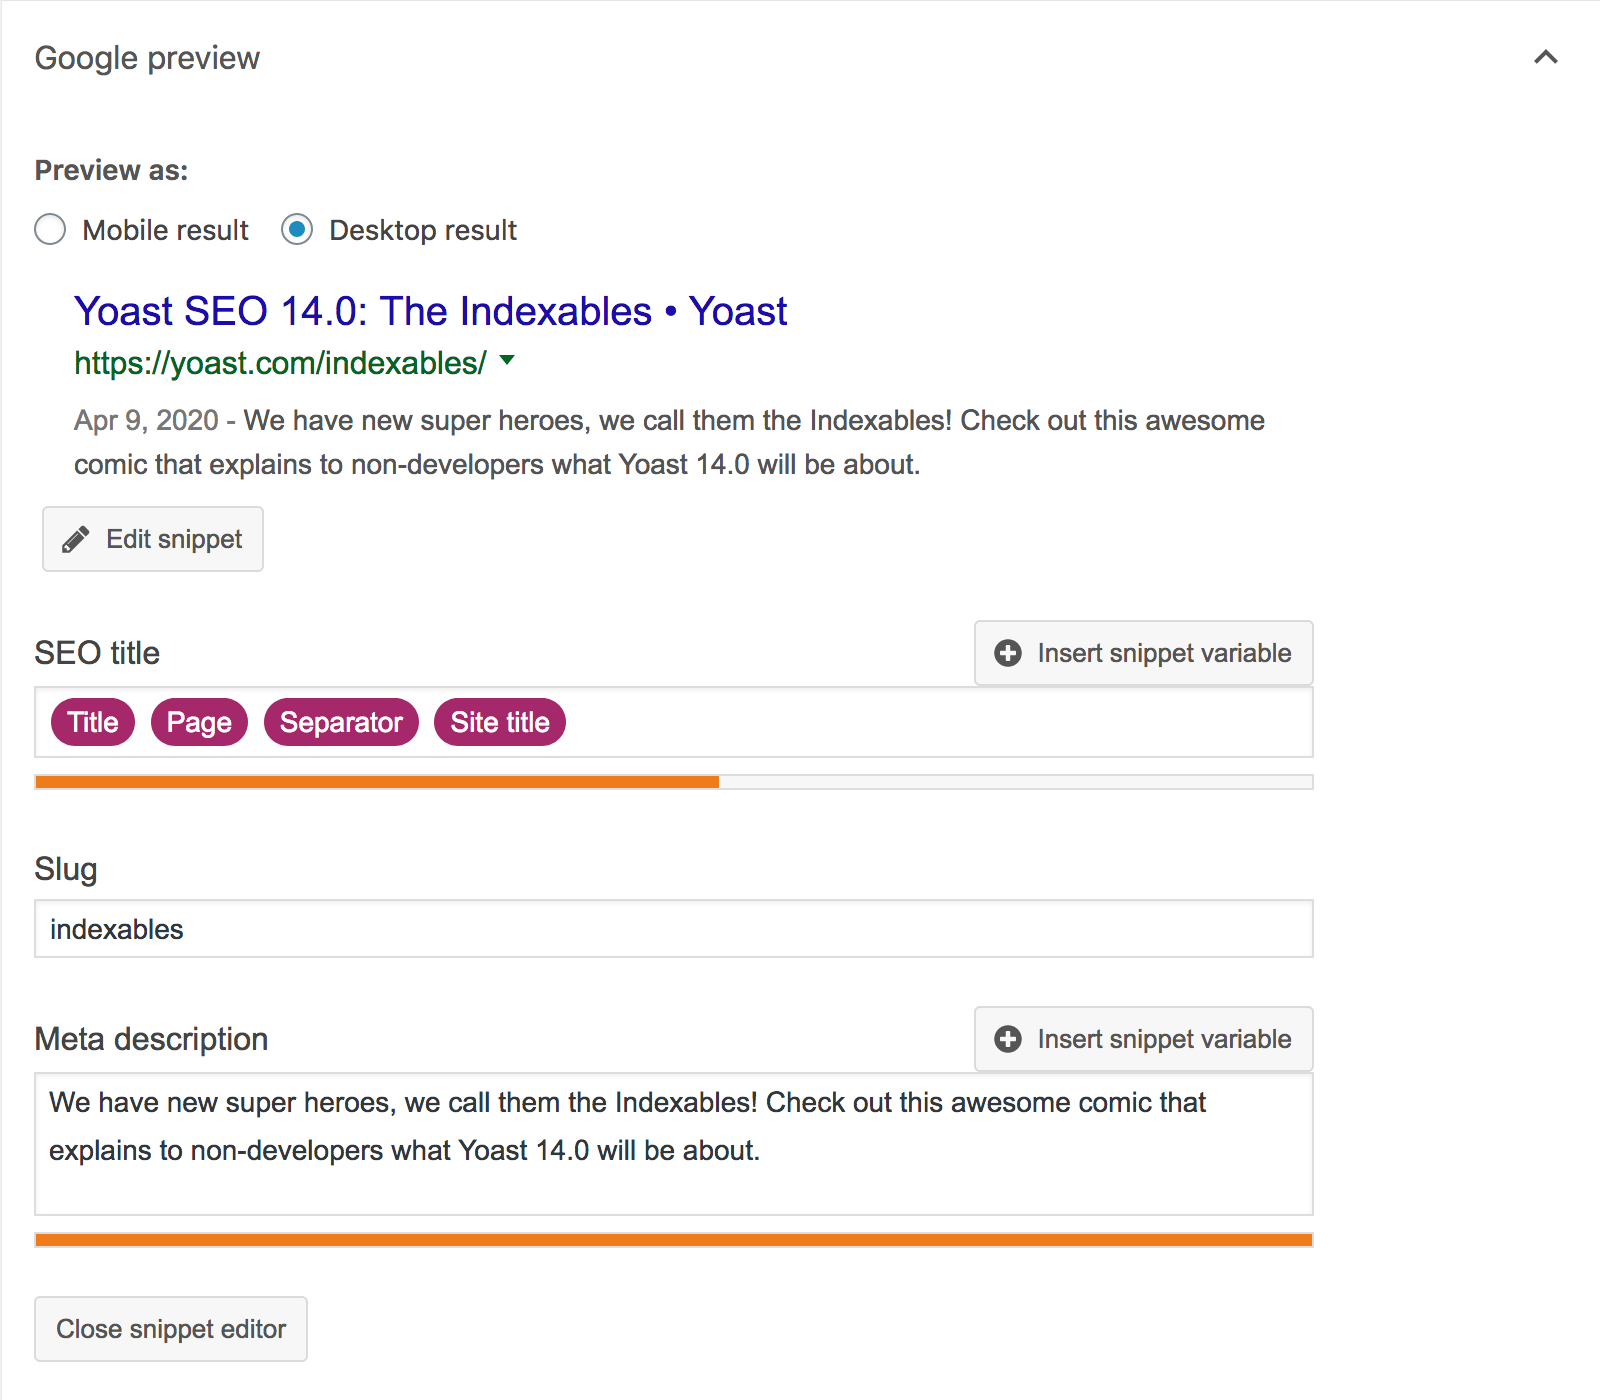
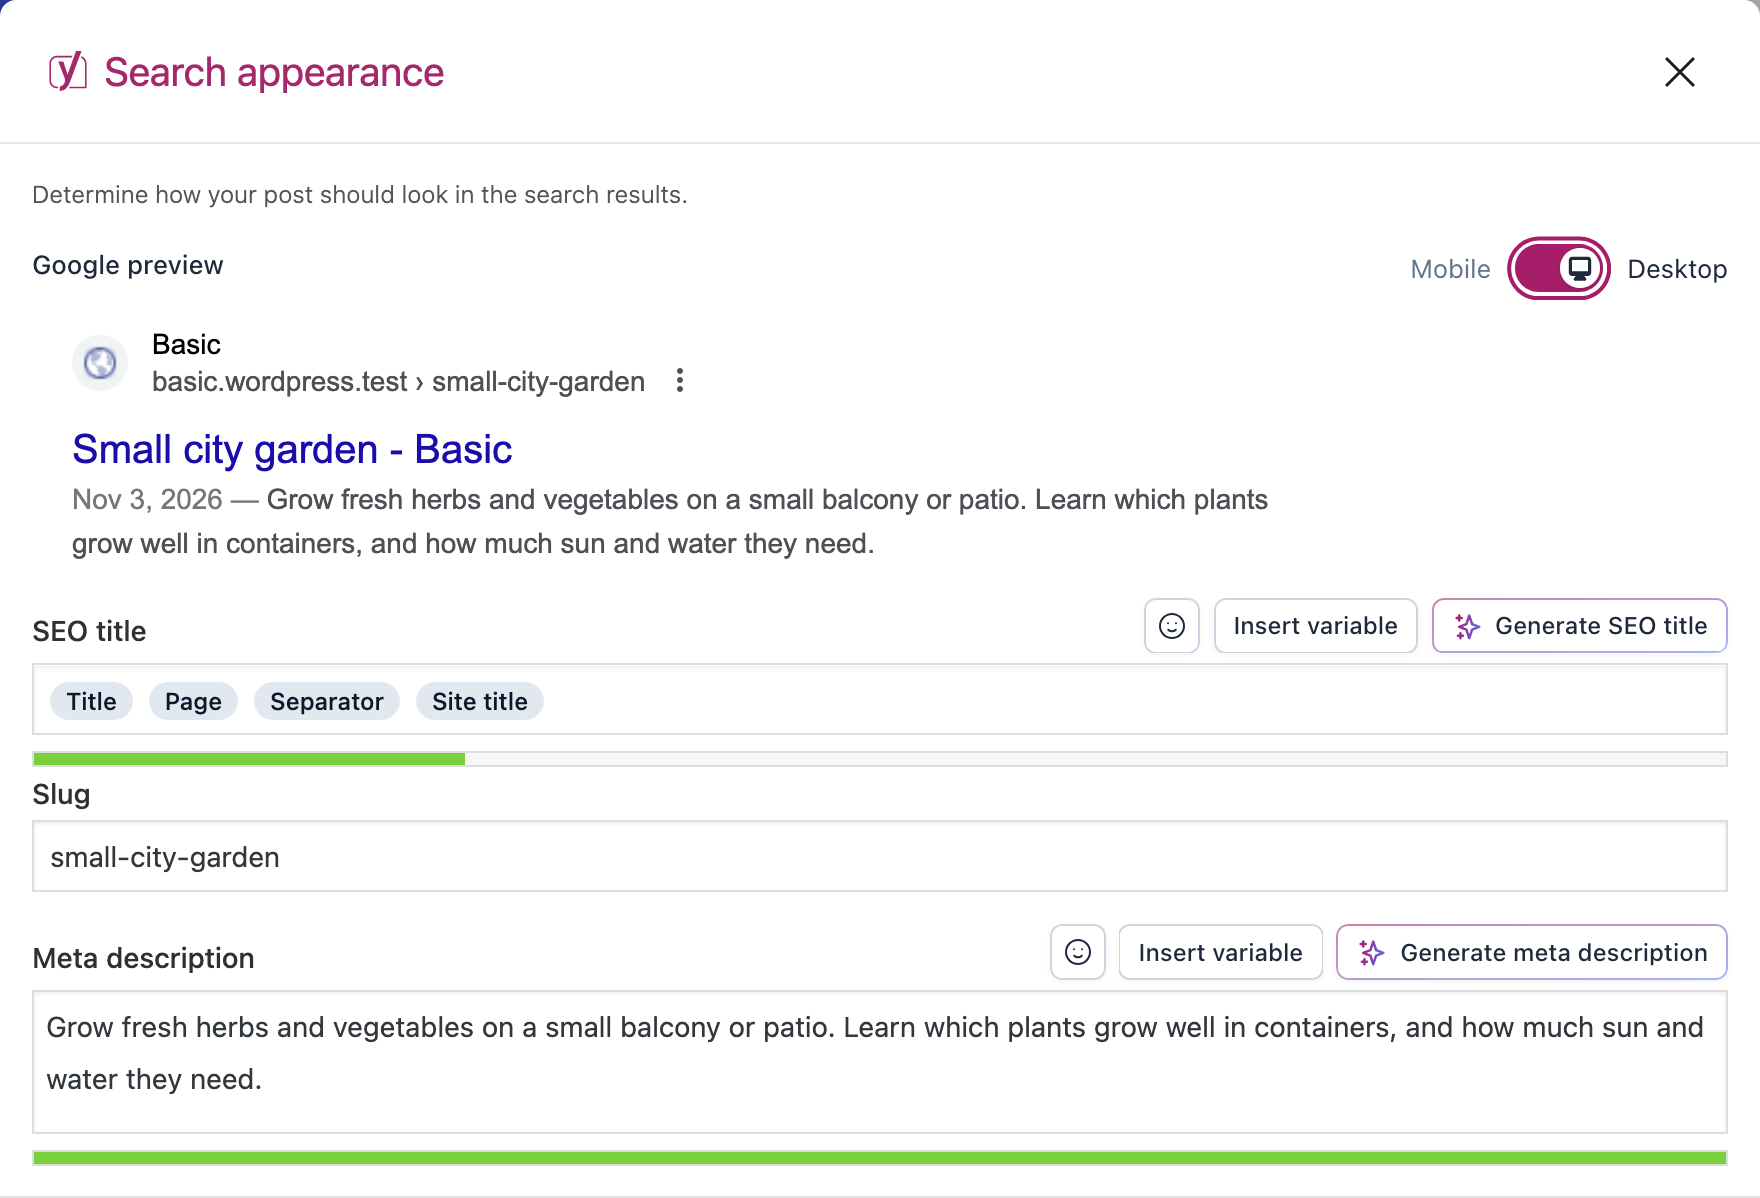
Update the search appearance preview on the analysis overview
The page said that yoastseo contains a "snippet editor". The preview
and its fields are in the separate @yoast/search-metadata-previews
package, and the UI now calls them "Search appearance" and "Google
preview". Update the text, link the assessments overview, and replace
the 2020 screenshots with new ones from Yoast SEO 28.9-RC5.

Also fix the alt text of the readability screenshot, which said "SEO &
accessibility checks".

Part of #226.

diff --git a/docs/features/analysis/overview.md b/docs/features/analysis/overview.md
@@ -7,21 +7,21 @@ description: This documentation provides information about how Yoast SEO analyze
 This documentation provides information about how [Yoast SEO](https://yoast.com/product/yoast-seo-wordpress/) analyzes content.
 
 ## Content analysis & meta controls
-Our JavaScript content analysis tool, [YoastSEO.js](https://github.com/Yoast/javascript/tree/main/packages/yoastseo), is able to analyze content for a whole range of SEO, accessibility and readability checks.
-It contains a 'snippet editor', which generates previews of how the page will (probably) be displayed in Google desktop or mobile search.
-It also contains an editor in which users can edit the page's title, URL and meta description intuitively.
+Our JavaScript content analysis tool, [`yoastseo`](https://github.com/Yoast/wordpress-seo/tree/trunk/packages/yoastseo), is able to analyze content for a whole range of SEO, accessibility and readability checks. See [Assessments](assessments/overview.md) for all checks and how they are scored.
+
+The preview of how the page will (probably) look in Google search results is a separate package, [`@yoast/search-metadata-previews`](https://github.com/Yoast/wordpress-seo/tree/trunk/packages/search-metadata-previews). In Yoast SEO, it is shown in the **Search appearance** section: a **Google preview** with a **Mobile** and **Desktop** mode, and fields to edit the **SEO title**, **Slug** and **Meta description**.
 
 Example of the SEO & accessibility checks
 ![Example of the SEO & accessibility checks](seo-analysis.png)
 
 Example of the readability checks
-![Example of the SEO & accessibility checks](readability.png)
+![Example of the readability checks](readability.png)
 
-Snippet editor (desktop)
-![Snippet editor (desktop)](desktop-preview.png)
+Google preview (desktop)
+![Google preview (desktop)](desktop-preview.png)
 
-Snippet editor (mobile)
-![Snippet editor (mobile)](mobile-preview.png)
+Google preview (mobile)
+![Google preview (mobile)](mobile-preview.png)
 
 These UI elements should be integrated into the content editing experience and should update in a real-time or semi-realtime manner. For inspiration, implementors are recommended to take a look at how these elements are integrated into [Yoast SEO for WordPress](https://wordpress.org/plugins/wordpress-seo/).
 
